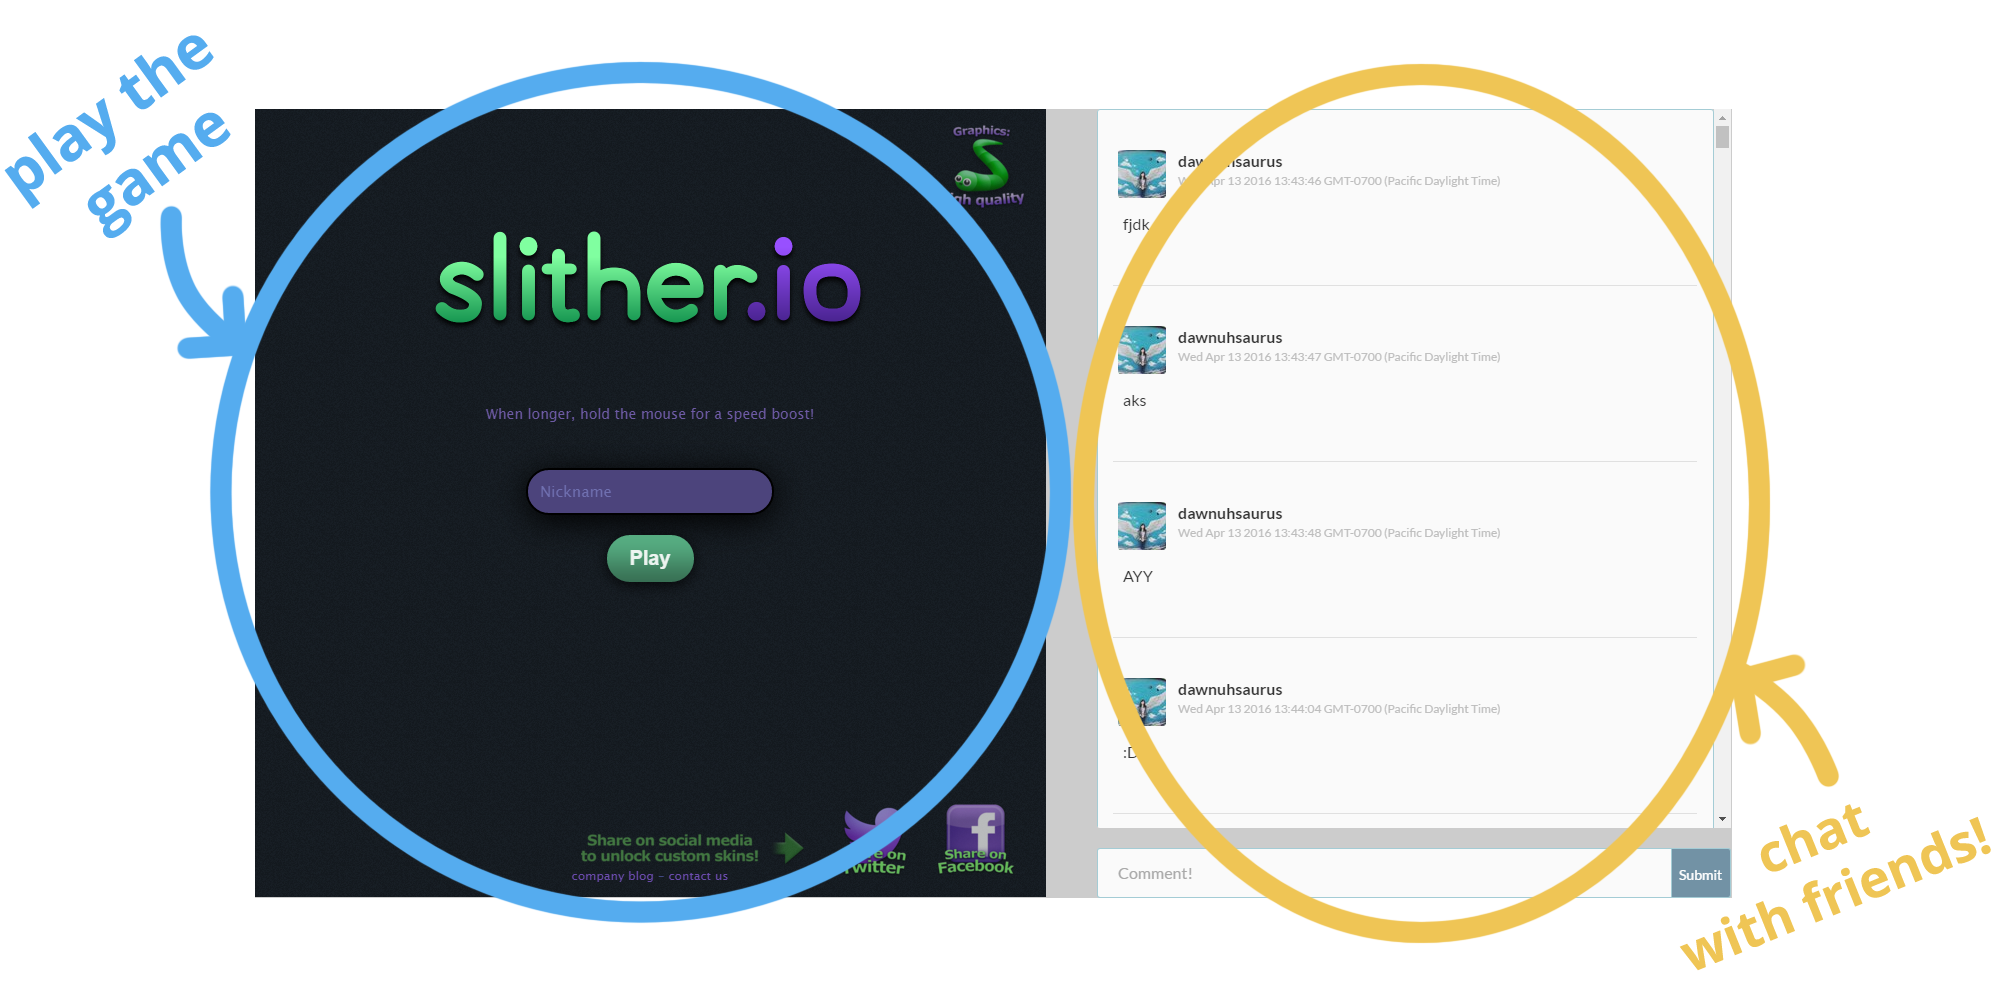
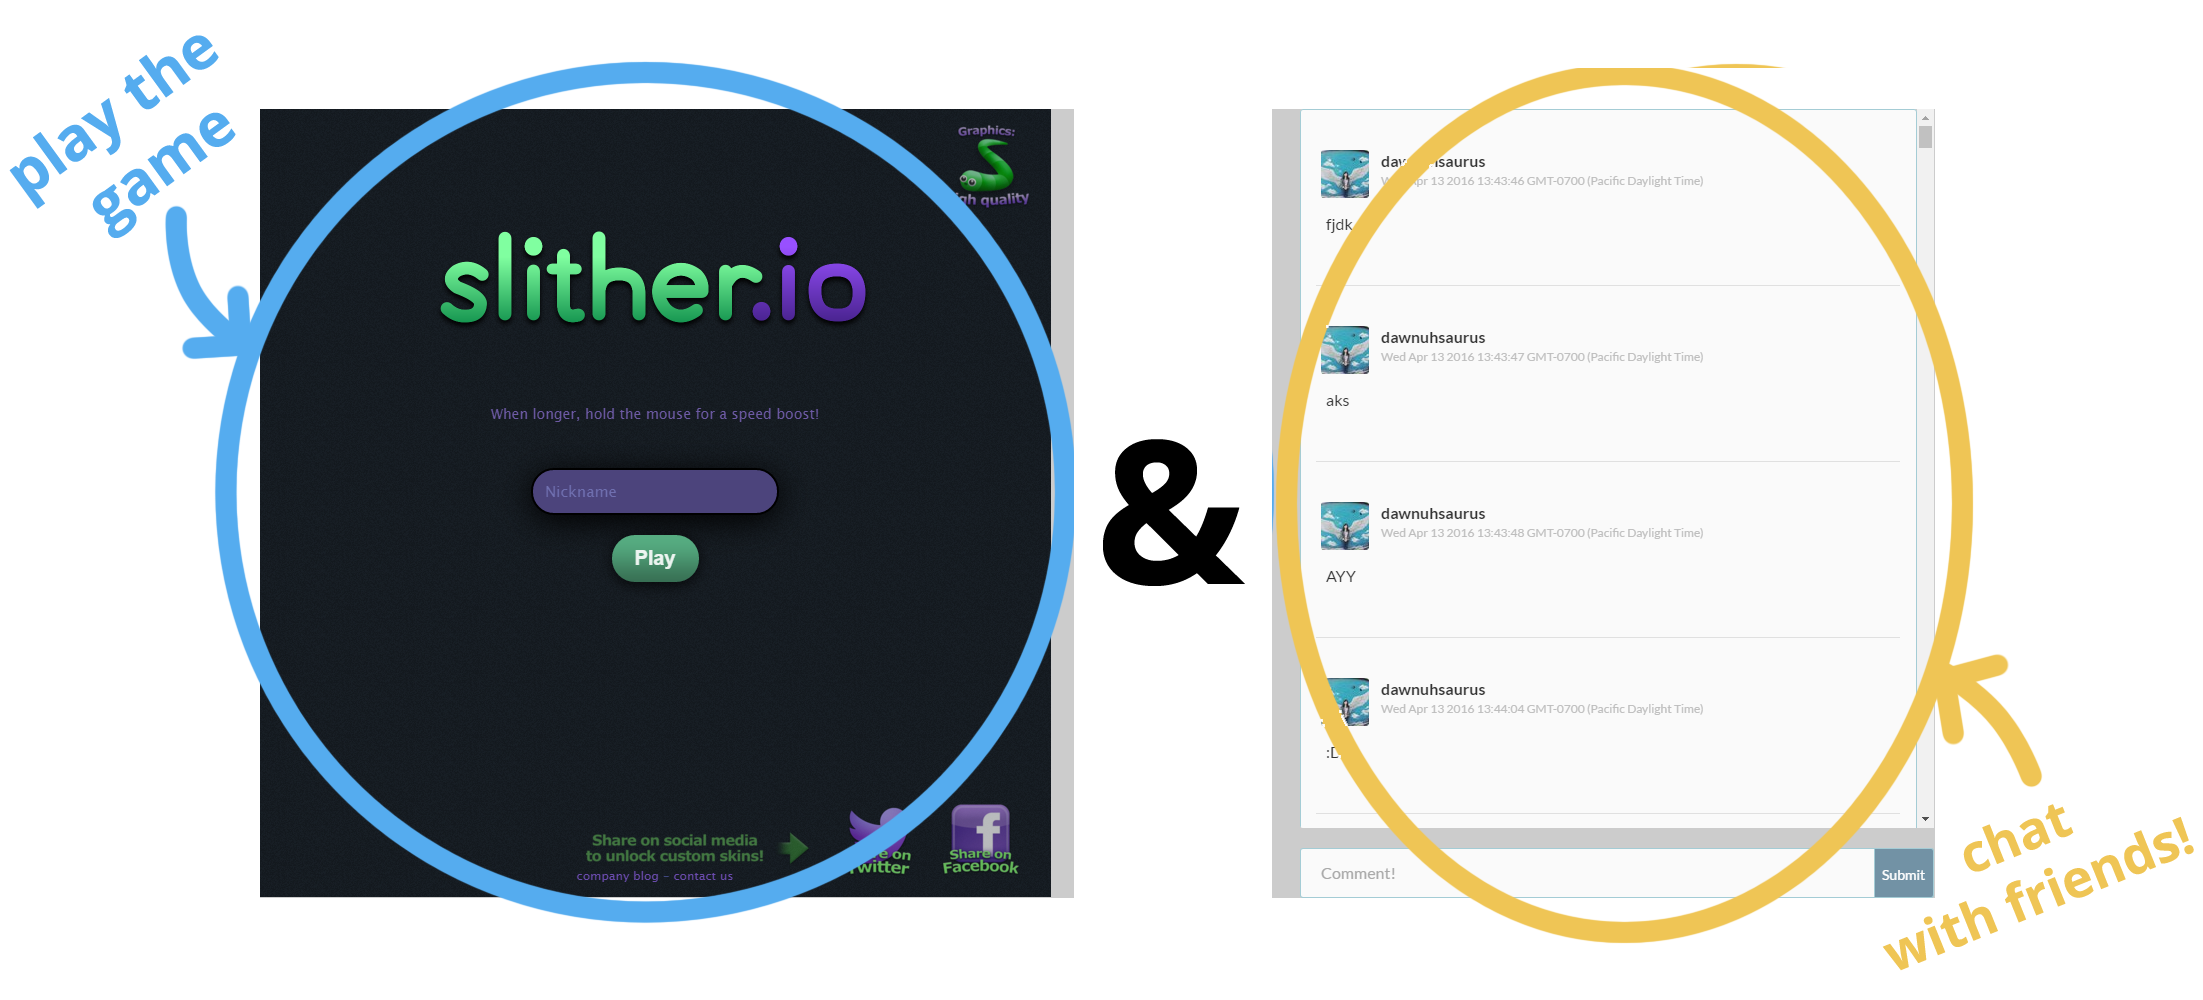
Finished home page

diff --git a/views/chat.html b/views/chat.html
@@ -21,10 +21,18 @@
 
     <div class="tab-content">
       <div id="home" class="tab-pane fade in active">
+        <br>
         <center><h1>Welcome to gamr! </h1><br>
-        <h3>A space where you can play the game "slither" with others and chat about it!</h3>
-            <img class="help" src="../img/help.png">
+          <div class="para">
+        Gamr is a game-oriented chat-matchmaking interface that allows users from around the world to meet and discuss about their favorite games. This interface not only allows users to communicate with each other, but it allows them to form social bonds inside and outside of their games. One such game that benefits from this interface is Slither.io. Through our live-chat system, individuals who use Slither while on Gamr, will always have a forum where they can meet other avid players, and also have the potential to meet and team up with these players in the game.
+      </div>
+        <h1>How to Play Slither?</h1>
+        <div class="para">
+        Slither takes a classic span on the game snake. To play, users must first choose a name. Next, users have the option of using either their trackpads or mice to control the directionality of their movements. The final feature of Slither is the space bar. By pressing the spacebar, users can speed up their movements. This however, comes at cost of losing some of the “snakes” acquired score. 
+      </div>
+        Gamr is an live-chat system that gives users direct access to a community of other users also playing the same game.
         </center>
+        <center><img class="help" src="../img/help.png"></center>
       </div>
 
     
@@ -67,7 +75,7 @@
         
 	<div id="chatbox">
           <form id="send_message" action="">
-            <input type="text" id="user_input" placeholder="Comment!" autocomplete="off"/>
+            <input type="text" id="user_input" placeholder="Chat about slither!" autocomplete="off"/>
             <button type="submit" id="submitBtn">Submit</button>
           </form>
         </div>

diff --git a/public/css/smartr.css b/public/css/smartr.css
@@ -327,17 +327,30 @@ form{
 
 #home{
 	background-color: white;
+	height: 800px;
+	margin-top: -2px;
 }
 
 #home > center {
-	padding-bottom: 180px;
 	top: 15px;
+	padding-bottom: 50px;
 }
 
 .help{
-	height: 500px;
+	height: 350px;
 }
 
 h1{
-	margin-top: 0px;
+	margin-top: -5px;
+	color: #7292a5;
+	font-weight: bold;
+}
+
+.para{
+	width: 800px;
+	padding-bottom: 20px;
+}
+
+.nav-tabs>li.active>a, .nav-tabs>li.active>a:focus, .nav-tabs>li.active>a:hover{
+	border: none;
 }
